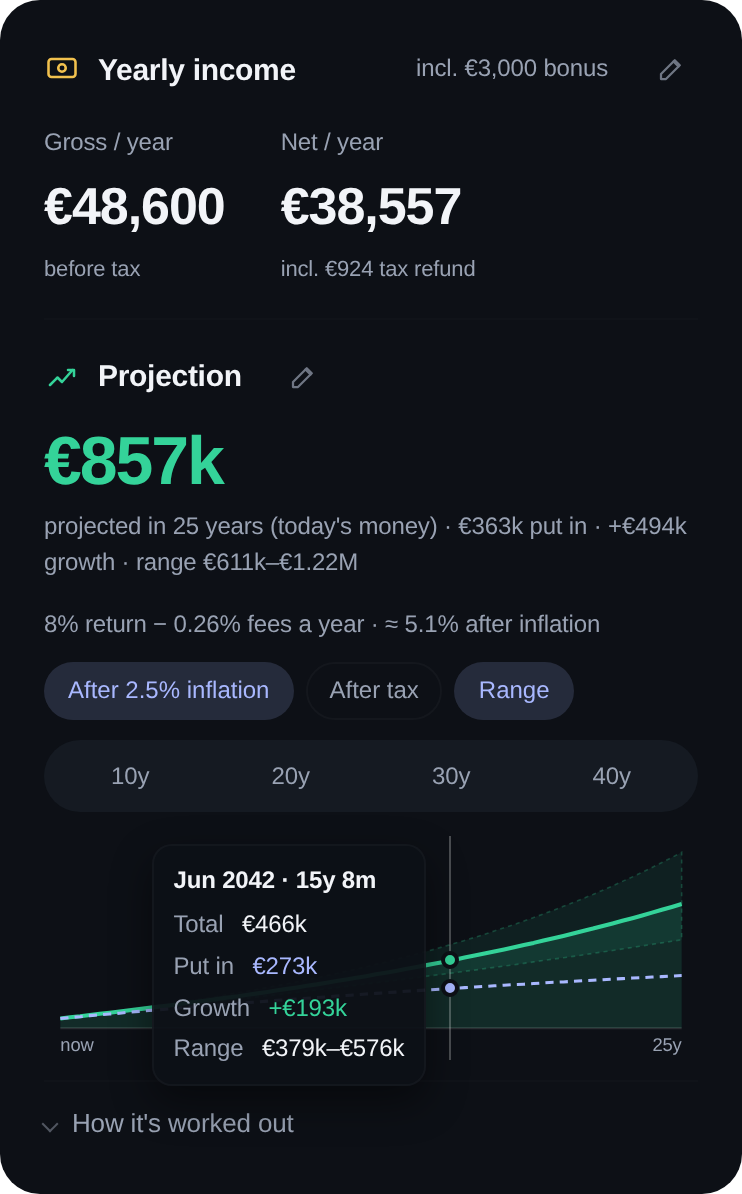
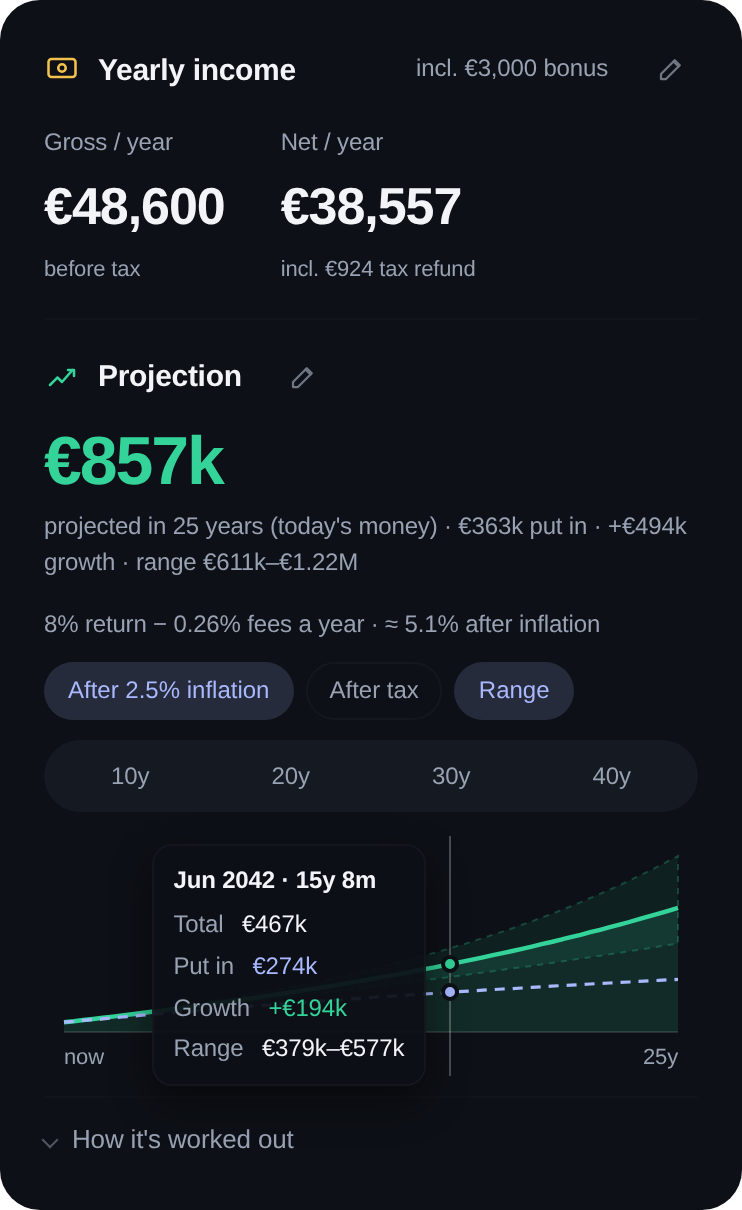
Estonian Finance Planner v1.1.4

diff --git a/index.html b/index.html
@@ -30,12 +30,14 @@
 <head>
 <meta charset="UTF-8">
 <meta name="viewport" content="width=device-width, initial-scale=1.0">
-<meta http-equiv="Content-Security-Policy" content="default-src 'none'; script-src 'sha256-YWpCvwiOi+GWmIGAqZ/B+7s1yfRtvDr+kM4LTDLg0Hw=' 'sha256-naFBOvsZb5C4X2iGpSSXApQuDIap5SOWaMebYLYF2sI='; style-src 'unsafe-inline'; font-src data:; img-src data: blob:; connect-src 'none'; form-action 'none'; base-uri 'none'">   <!-- privacy, enforced: the page may load nothing and send nothing; only its own scripts (allowed by SHA-256 fingerprint: after editing a script, run tools/update_csp.py), styles and built-in font run -->
+<meta http-equiv="Content-Security-Policy" content="default-src 'none'; script-src 'sha256-JdYKCqNlQkNwZBKYTi9iN/WZConOmcz1r5DovBJIWHA=' 'sha256-0enjrCMey3FbdqTxPxrvfKmrCX7aQI5XhX2jd3rorxM='; style-src 'unsafe-inline'; font-src data:; img-src data: blob:; connect-src 'none'; form-action 'none'; base-uri 'none'">   <!-- privacy, enforced: the page may load nothing and send nothing; only its own scripts (allowed by SHA-256 fingerprint: after editing a script, run tools/update_csp.py), styles and built-in font run -->
 <meta name="referrer" content="no-referrer">   <!-- links out (source code, license) don't tell the other site which page you came from -->
 <meta name="color-scheme" content="dark">   <!-- the page is already dark: stops browser auto-dark modes (and the darkreader-lock line, the Dark Reader extension) from recoloring it -->
 <meta name="darkreader-lock">
 <style id="framed">html{display:none!important}</style>   <!-- hidden until the line below confirms it isn't shown inside another site's page, so nobody can overlay it to trick clicks (e.g. on Delete) -->
-<script>try{ if(window.top===window.self) document.getElementById('framed').remove(); }catch(e){}</script>
+<script>try{ if(window.top===window.self) document.getElementById('framed').remove(); }catch(e){}
+// The saved view and layout (KEY_UI and WIDE_MIN in the main script), set before anything is drawn, so a reload doesn't flash Overview or the standard layout first.
+try{ const u=JSON.parse(localStorage.getItem('strategy_ui_v1'))||{}, h=document.documentElement; h.classList.toggle('progress', u.view==='progress'); h.classList.toggle('wide', !!u.wide && innerWidth>=1600); }catch(e){}</script>
 <title>Estonian Finance Planner</title>
 <meta name="description" content="Free, private personal finance planner for Estonia: net salary, budget, II and III pillar pension, investments, loans, goals and retirement, with Estonian tax rules. No account, works offline. Tasuta isikliku rahanduse planeerija Eestile: palgakalkulaator, eelarve, II ja III sammas, pensionikalkulaator, investeeringud ja laenud. Eesti ja inglise keeles, töötab ka ilma internetita.">   <!-- what search engines show under the title -->
[1 lines of base64/hex data omitted]
@@ -57,7 +59,7 @@
        lists on cards: .acctrow .physrow .debtitem .dline   investments card: #funds-section #inv-section (.invsec)   goals: #goals-card ul.goals
        views: .viewtabs .view (#view-overview, #view-progress)   progress: #history-card #hist-chart .hdot #targets-card .tgtitem .tbar .tfill
        tooltip: #tip   animation: .mtx (number scramble)
-     Conventions: phone rules in @media(max-width:480px); donut cards stack via @container (card's inner width ≤300px, not screen); wide layout only as body.wide inside @media(min-width:1600px);
+     Conventions: phone rules in @media(max-width:480px); donut cards stack via @container (card's inner width ≤300px, not screen); wide layout only as html.wide inside @media(min-width:1600px); the saved view and layout (html.progress, html.wide) are set by the small script in <head>, before the first paint;
        ≥1180px = editor docked right (earlier, docking would squeeze the dashboard below its two-card width); ≥780px = two-column dashboard; ≥700px = 4 tiles in one row; ≥560px = bigger hero.
        !important is only used where it must beat a card rule: .mnet (hero box, darker than cards) and print. */
 
@@ -239,8 +241,8 @@
   .bar > div:hover{opacity:1}
   /* printing: hide controls */
   @media print{
-    body.wide .view{columns:auto}
-    body.wide .dash{display:grid}
+    html.wide .view{columns:auto}
+    html.wide .dash{display:grid}
     .topbar .btn, .editor, .projctrl, .yrbtns, #tip, .toast{display:none !important}
     body{-webkit-print-color-adjust:exact; print-color-adjust:exact}
     .wrap{max-width:100%; padding:0}
@@ -345,7 +347,7 @@
   .yrbtns button:hover{color:var(--text)}
   .editor h2{margin:0 0 4px; font-size:17px; font-weight:600; letter-spacing:-0.01em}
   .esec{overflow:hidden; background:var(--card); border:none; border-radius:16px; margin-bottom:10px}
-  .esec:last-of-type, .view > :last-child, .view > :last-child > .card, body.wide .view > :last-child > .card{margin-bottom:0}   /* both columns end exactly at the layout's bottom edge */
+  .esec:last-of-type, .view > :last-child, .view > :last-child > .card, html.wide .view > :last-child > .card{margin-bottom:0}   /* both columns end exactly at the layout's bottom edge */
   .esec > summary{cursor:pointer; list-style:none; display:flex; align-items:center; gap:10px; font-size:14px; font-weight:500; padding:14px 16px}
   .esec > summary:hover{background:rgba(255,255,255,0.025)}
   .esecbody{padding:4px 12px 14px}
@@ -402,6 +404,7 @@
   .viewtabs{display:inline-flex; background:var(--surface); border-radius:999px; padding:3px; gap:2px}
   .viewtabs button{border:none; border-radius:999px; background:transparent; color:var(--text2); padding:6px 14px; font:inherit; font-size:13px; font-weight:500; cursor:pointer}
   .viewtabs button:hover{color:var(--text)}
+  html.progress #view-overview{display:none} html.progress #view-progress{display:block}   /* the saved view shows from the first paint; show() keeps the class in step */
   .view.entering{animation:viewIn .26s cubic-bezier(.22,.8,.26,1) both}
   @keyframes viewIn{from{opacity:0; transform:translateY(6px)} to{opacity:1; transform:none}}
   @media (prefers-reduced-motion: reduce){ .view.entering{animation:none} }
@@ -504,27 +507,30 @@
   .smallbtn:hover{color:var(--text)}
   .btn[hidden]{display:none}
   .inwrap input:disabled{pointer-events:none}   /* disabled fields get no mouse events, so their box shows the tooltip */
-  /* wide layout (body.wide), big screens only */
+  /* wide layout (html.wide), big screens only */
   @media (min-width:1600px){
-    body.wide .wrap{max-width:none; padding-left:32px; padding-right:32px}
-    body.wide .layout{grid-template-columns:minmax(0,1fr) 400px; gap:28px}
-    body.wide .view{column-width:440px; column-gap:var(--gap)}
-    body.wide .view > .topgrid{column-span:all; grid-template-columns:minmax(260px,1.4fr) repeat(4,minmax(0,1fr)); align-items:stretch; margin-bottom:var(--gap)}
-    body.wide .topgrid .mnet{grid-column:auto; padding:16px 20px !important}
-    body.wide .dash, body.wide .dash-right, body.wide .main .grid2{display:contents}
-    body.wide .main .card{break-inside:avoid; margin:0 0 var(--gap); display:block}
+    html.wide .wrap{max-width:none; padding-left:32px; padding-right:32px}
+    html.wide .layout{grid-template-columns:minmax(0,1fr) 400px; gap:28px}
+    html.wide .view{columns:440px 4; column-gap:var(--gap)}   /* at most 4 columns: on bigger screens the cards get wider instead of leaving empty columns */
+    html.wide .view > .topgrid{column-span:all; grid-template-columns:minmax(260px,1.4fr) repeat(4,minmax(0,1fr)); align-items:stretch; margin-bottom:var(--gap)}
+    html.wide .topgrid .mnet{grid-column:auto; padding:16px 20px !important}
+    html.wide .dash, html.wide .dash-right, html.wide .main .grid2{display:contents}
+    html.wide .main .card{break-inside:avoid; margin:0 0 var(--gap); display:block}
     /* Goals: always last and full width, so a long list grows downward under everything instead of making one
        column tower over the rest. Columns drop the last card's bottom margin, so Goals adds the usual 14px gap itself. */
-    body.wide #goals-card{column-span:all; margin-top:var(--gap)}
-    body.wide #history-card{column-span:all}
+    html.wide #goals-card{column-span:all; margin-top:var(--gap)}
+    /* Progress has only two cards under the chart: side by side, half the width each */
+    html.wide.progress #view-progress{display:grid; grid-template-columns:repeat(2,minmax(0,1fr)); gap:var(--gap); align-items:start}
+    html.wide #view-progress > .card{margin:0}
+    html.wide #history-card{grid-column:1 / -1}
   }
-  body.wide .layout > .main{animation:wideIn .28s ease both}
+  html.wide .layout > .main{animation:wideIn .28s ease both}
   @keyframes wideIn{from{opacity:.35} to{opacity:1}}
   /* users who prefer less motion */
   @media (prefers-reduced-motion: reduce){
     .dring{transition:none}
     .mtx{text-shadow:none}
-    body.wide .layout > .main{animation:none}
+    html.wide .layout > .main{animation:none}
   }
   .toast{position:fixed; left:50%; bottom:22px; transform:translateX(-50%); z-index:900; display:flex; align-items:center; gap:14px; width:max-content; max-width:calc(100vw - 32px);
     background:#0A0C10; border:1px solid var(--border2); border-radius:12px; padding:8px 8px 8px 16px; font-size:13px; color:var(--text); box-shadow:0 10px 28px rgba(0,0,0,0.5)}
@@ -1129,7 +1135,7 @@
       </div>
     </details>
   </div>
-  <footer class="sitefoot"><span><span class="sitefoot-lock" aria-hidden="true"><svg viewBox="0 0 24 24" fill="none" stroke="currentColor" stroke-width="1.7" stroke-linecap="round" stroke-linejoin="round"><rect x="5" y="11" width="14" height="9" rx="2"/><path d="M8 11V7a4 4 0 0 1 8 0v4"/></svg></span>Private: nothing you enter ever leaves this browser.</span><a href="https://github.com/UnauthenticatedUser/Finance-Planner" target="_blank" rel="noopener">Source code</a><a href="https://github.com/UnauthenticatedUser/Finance-Planner/blob/main/LICENSE" target="_blank" rel="noopener">GPL-3.0</a><span class="sitefoot-ver">v1.1.3</span></footer>
+  <footer class="sitefoot"><span><span class="sitefoot-lock" aria-hidden="true"><svg viewBox="0 0 24 24" fill="none" stroke="currentColor" stroke-width="1.7" stroke-linecap="round" stroke-linejoin="round"><rect x="5" y="11" width="14" height="9" rx="2"/><path d="M8 11V7a4 4 0 0 1 8 0v4"/></svg></span>Private: nothing you enter ever leaves this browser.</span><a href="https://github.com/UnauthenticatedUser/Finance-Planner" target="_blank" rel="noopener">Source code</a><a href="https://github.com/UnauthenticatedUser/Finance-Planner/blob/main/LICENSE" target="_blank" rel="noopener">GPL-3.0</a><span class="sitefoot-ver">v1.1.4</span></footer>
   </div>
 
 </div>
@@ -2730,7 +2736,10 @@ function renderAllocation(c){
   have.forEach(el=>{ if(!el._leaving) legendPop(el, false, ()=>el.remove()); });
 }
 
-const PROJ={W:320,H:110,padL:8,padR:8,padT:8,padB:16,N:64};
+// The projection is drawn at its real width (1 unit = 1 pixel), so its text and lines keep one size on any screen; the
+// height grows with the width up to 200px. PROJ holds the size of the current drawing, set by renderProjection().
+const projSize=w=>{ const W=Math.max(200, Math.round(w)||320); return {W, H:Math.round(Math.min(200, Math.max(120, W*0.34))), padL:10, padR:10, padT:10, padB:22, N:64}; };
+let PROJ=projSize(320);
 let projState=null;
 function projSampleLine(pts, xs, ys){
   const poly=pts.map(p=>({x:xs(p.y), y:ys(p.val)})), N=PROJ.N, x0=PROJ.padL, x1=PROJ.W-PROJ.padR, out=[];
@@ -2750,12 +2759,12 @@ function projSVG(s, yrs){   // s = {line, lo, hi, c0, c1, band}: y-coordinates s
   const cLine= s.cl ? path(s.cl) : 'M'+x0.toFixed(1)+' '+s.c0.toFixed(1)+' L'+x1.toFixed(1)+' '+s.c1.toFixed(1);
   return '<svg viewBox="0 0 '+W+' '+H+'" xmlns="http://www.w3.org/2000/svg">'
     +'<line x1="'+padL+'" y1="'+base+'" x2="'+x1+'" y2="'+base+'" stroke="rgba(255,255,255,0.12)"/>'
-    +(band?'<path d="'+band+'" fill="#34D39916" stroke="#34D39940" stroke-width="0.8" stroke-dasharray="2 2"/>':'')
+    +(band?'<path d="'+band+'" fill="#34D39916" stroke="#34D39940" stroke-width="1" stroke-dasharray="3 3"/>':'')
     +'<path d="'+area+'" fill="#34D39924"/>'
-    +'<path d="'+line+'" fill="none" stroke="#34D399" stroke-width="2" stroke-linejoin="round"/>'
-    +'<path d="'+cLine+'" fill="none" stroke="#A9B8FF" stroke-width="1.5" stroke-dasharray="4 3"/>'
-    +'<text x="'+padL+'" y="'+(H-5)+'" class="axl" font-size="9">'+L('now','täna')+'</text>'
-    +'<text x="'+x1+'" y="'+(H-5)+'" class="axl" font-size="9" text-anchor="end">'+yrs+L('y','a')+'</text>'
+    +'<path d="'+line+'" fill="none" stroke="#34D399" stroke-width="2.2" stroke-linejoin="round"/>'
+    +'<path d="'+cLine+'" fill="none" stroke="#A9B8FF" stroke-width="1.6" stroke-dasharray="5 4"/>'
+    +'<text x="'+padL+'" y="'+(H-6)+'" class="axl" font-size="11">'+L('now','täna')+'</text>'
+    +'<text x="'+x1+'" y="'+(H-6)+'" class="axl" font-size="11" text-anchor="end">'+yrs+L('y','a')+'</text>'
     +'</svg>';
 }
 // ===== Progress: monthly history and targets =====
@@ -3108,6 +3117,7 @@ function renderProjection(c){
     range ? L('Range: the shaded band shows a return '+num(sp)+'% a year lower and higher.','Vahemik: varjutatud ala näitab '+num(sp)+'% võrra madalamat ja kõrgemat aastatootlust.') : ''
   ]);
   const el=document.getElementById('proj-svg'); if(!el) return;
+  el._w=Math.round(el.clientWidth); PROJ=projSize(el._w);
   const {W,H,padL,padR,padT,padB}=PROJ, maxV=Math.max(1, ...pts.map(p=>p.val), ...(hi||[]).map(p=>p.val), ...sim.pts.map(p=>p.putR));   // the highest point anywhere: a falling line or the put-in line can top it
   const xs=y=> padL + (y/yrs)*(W-padL-padR);
   const ys=val=> H-padB - (val/maxV)*(H-padT-padB);
@@ -3215,10 +3225,12 @@ document.getElementById('importFile').addEventListener('change', e=>{
 });
 
 document.querySelectorAll('.esec, .drop, .msurplus').forEach(smoothDetails);
-// The history chart is drawn at its real width: redraw it whenever that width changes (window size, wide layout, the
-// Progress view being shown), so it's never a small drawing stretched up. Next frame, so the redraw doesn't resize it mid-check.
-(function(){ const box=document.getElementById('hist-chart'); let raf=0;
-  new ResizeObserver(()=>{ cancelAnimationFrame(raf); raf=requestAnimationFrame(()=>{ const w=Math.round(box.clientWidth); if(w && w!==box._w) renderHistory(compute()); }); }).observe(box); })();
+// The history and projection charts are drawn at their real width: redraw them whenever that width changes (window size,
+// wide layout, a view being shown), so neither is a small drawing stretched up. Next frame, so a redraw doesn't resize it mid-check.
+function redrawOnResize(box, draw){ let raf=0;
+  new ResizeObserver(()=>{ cancelAnimationFrame(raf); raf=requestAnimationFrame(()=>{ const w=Math.round(box.clientWidth); if(w && w!==box._w) draw(); }); }).observe(box); }
+redrawOnResize(document.getElementById('hist-chart'), ()=>renderHistory(compute()));
+redrawOnResize(document.getElementById('proj-svg'), ()=>{ if(projState && projState.raf) cancelAnimationFrame(projState.raf); projState=null; renderProjection(compute()); });   // straight to the new size, no animation
 // Two-option choices (.seg) and chips (.chip) drive a hidden switch; they show its state after every update.
 function syncSegs(){
   const p2=document.getElementById('p2seg');
@@ -3298,7 +3310,7 @@ document.querySelectorAll('.langtabs [data-lang]').forEach(b=>b.addEventListener
   LANG=b.dataset.lang; setUI('lang', LANG);
   translateStatic(); refreshAll();
   const tb=document.getElementById('toggleAllBtn'); if(tb && tb._sync) tb._sync();
-  const wb=document.getElementById('wideBtn'); if(wb) wb.textContent=t(document.body.classList.contains('wide') ? 'Standard layout' : 'Wide layout');
+  const wb=document.getElementById('wideBtn'); if(wb) wb.textContent=t(document.documentElement.classList.contains('wide') ? 'Standard layout' : 'Wide layout');
   fitTopbar();
 }));
 translateStatic();
@@ -3311,6 +3323,7 @@ document.querySelectorAll('.sico[data-icon]').forEach(d=>{ const svg=document.qu
     document.querySelectorAll('.main > .view').forEach(vw=>{ const on=vw.id==='view-'+v; vw.hidden=!on;
       if(on && anim && !REDUCE_MOTION){ vw.classList.remove('entering'); void vw.offsetWidth; vw.classList.add('entering'); } });
     tabs.forEach(t=>t.setAttribute('aria-selected', t.dataset.view===v?'true':'false'));
+    document.documentElement.classList.toggle('progress', v==='progress');
   };
   tabs.forEach(t=>t.addEventListener('click', ()=>{ setUI('view', t.dataset.view); show(t.dataset.view, true); renderCalc(); }));
   show(readJSON(KEY_UI).view==='progress'?'progress':'overview', false);
@@ -3347,7 +3360,7 @@ document.querySelectorAll('.sico[data-icon]').forEach(d=>{ const svg=document.qu
   const apply=()=>{
     const room=window.innerWidth>=WIDE_MIN, on=room && wide;
     btn.hidden=!room; fitTopbar();
-    document.body.classList.toggle('wide', on);
+    document.documentElement.classList.toggle('wide', on);
     btn.textContent = t(on ? 'Standard layout' : 'Wide layout');     // names what clicking will do
     btn.setAttribute('data-tip', on ? 'Back to the standard layout, centered on the page.' : 'Use the whole screen: cards flow into columns so everything fits without scrolling.');
   };

diff --git a/CHANGELOG.md b/CHANGELOG.md
@@ -2,6 +2,14 @@
 
 All notable changes to Estonian Finance Planner are listed here, newest first. Versions follow [semantic versioning](https://semver.org): the last number is for fixes, the middle one for new features, the first one for changes that break something. Saved data and backups from v1.0.0 on keep loading in every later version.
 
+## [1.1.4] – 2026-10-14
+
+- **Wide layout on big screens.** At most four columns of cards: on bigger screens the cards get wider instead of leaving empty columns on the right. Progress shows Targets and Retirement side by side, each half the width, instead of two narrow cards.
+- **Projection chart drawn at its real size.** Like the net worth chart, it's now drawn for the space it has instead of a small drawing stretched to fit, so its labels and lines stay the same size on a phone, a laptop or a very wide screen.
+- **No flash on reload.** Reloading on Progress, or in the wide layout, no longer shows Overview or the standard layout for a moment first.
+
+Saved data and backups from earlier versions keep working.
+
 ## [1.1.3] – 2026-10-14
 
 - **3rd pillar refund limit shown.** When your 3rd pillar contributions go over the tax refund limit (15% of your income or €6,000 a year, whichever is lower), the editor shows a note with how much gets the refund and how much doesn't, and the Pensions card says so in one line. Before, this was only in a tooltip.
@@ -63,6 +71,7 @@ First public release.
 - Works on phones and wide screens, and offline as a single downloaded file.
 - Automated tests check the calculations against independent models on every change, and the online version is only published when they all pass.
 
+[1.1.4]: https://github.com/UnauthenticatedUser/Finance-Planner/releases/tag/v1.1.4
 [1.1.3]: https://github.com/UnauthenticatedUser/Finance-Planner/releases/tag/v1.1.3
 [1.1.2]: https://github.com/UnauthenticatedUser/Finance-Planner/releases/tag/v1.1.2
 [1.1.1]: https://github.com/UnauthenticatedUser/Finance-Planner/releases/tag/v1.1.1
